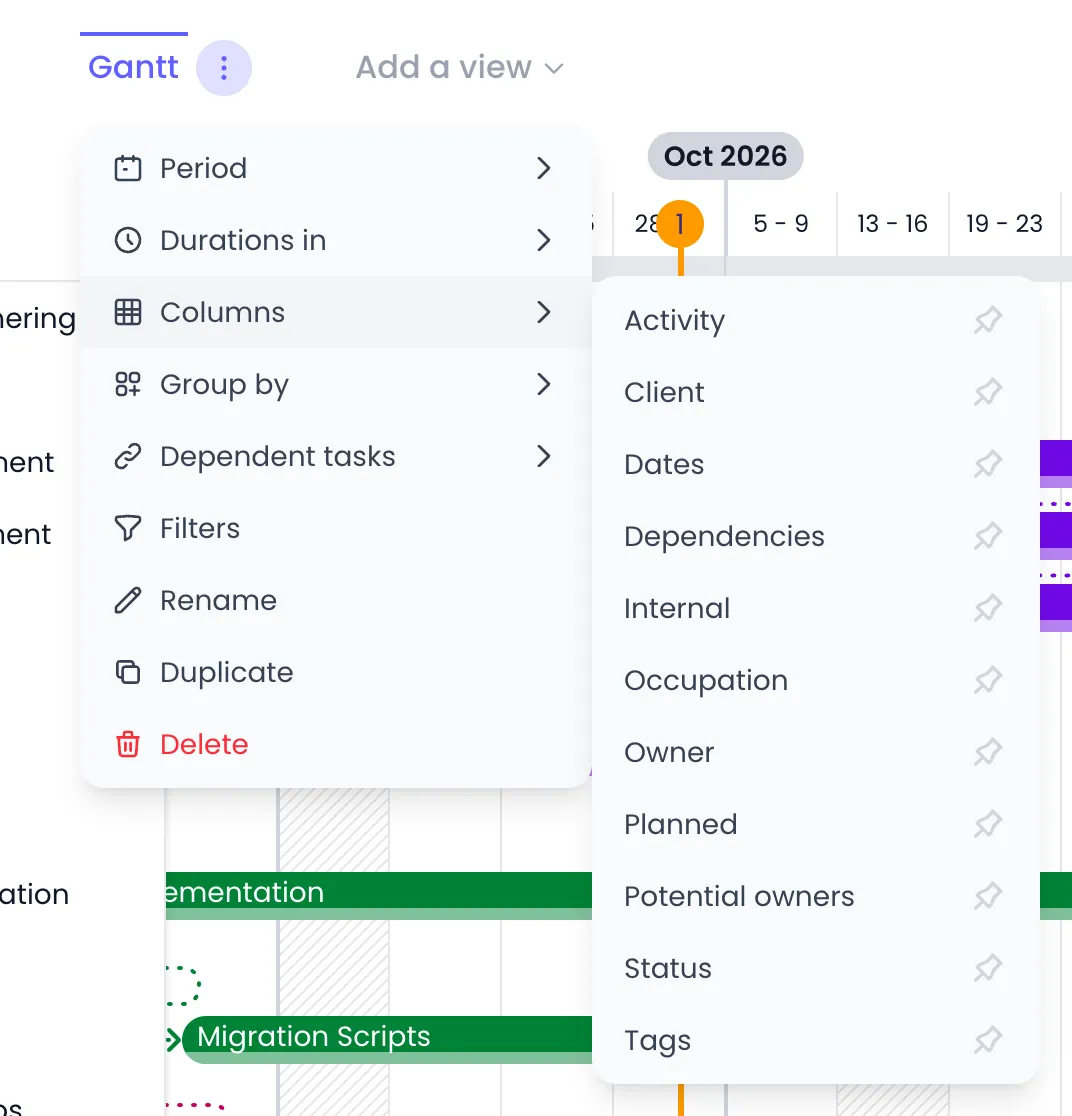
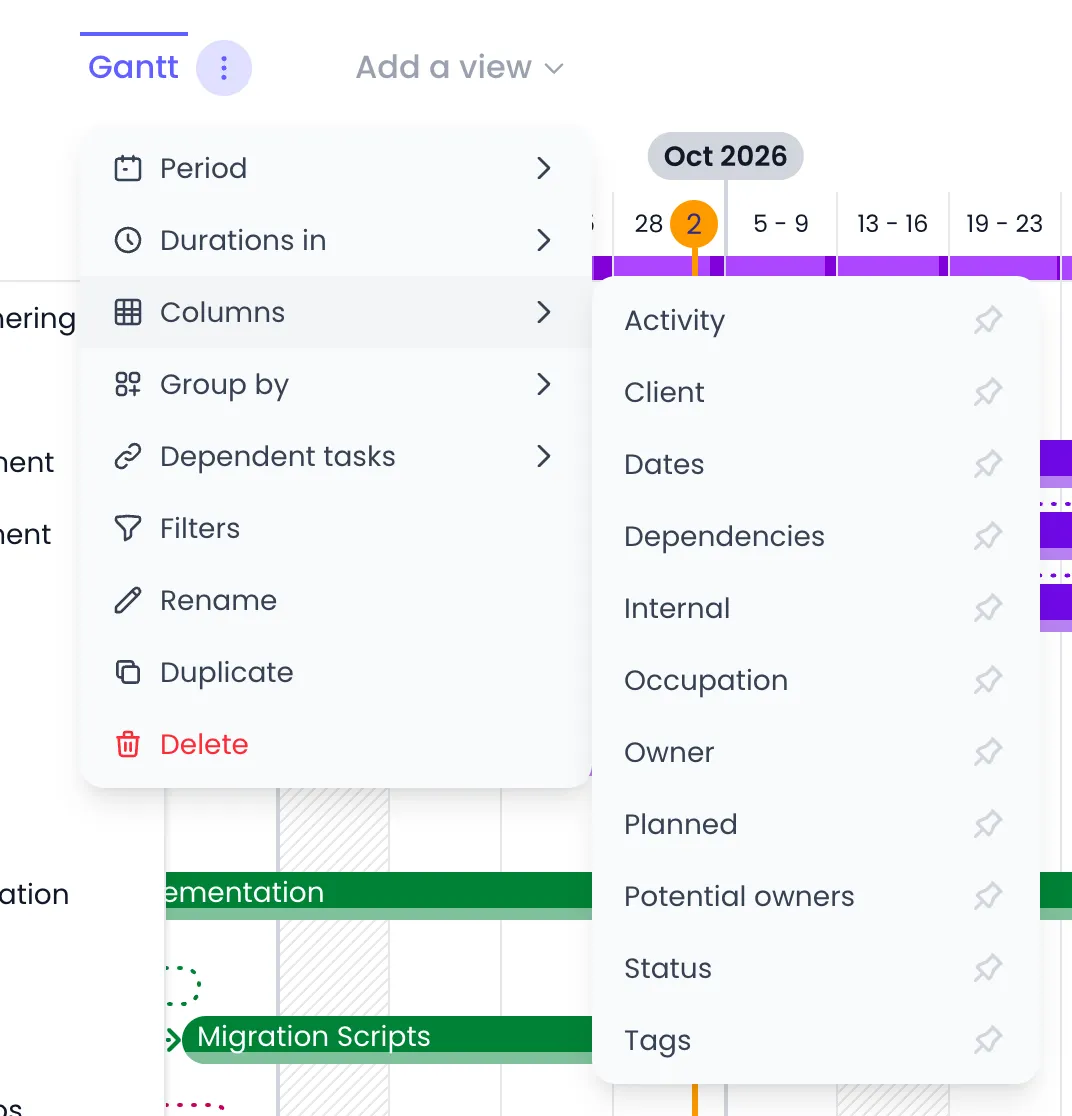
Refresh the Gantt and Utilization shots after the seed repair
Whole-day bars and planned hours change the Gantt timeline, its menus and
the dependency drag (the header now carries its load bars), and give the
Utilization report a Projected figure.

Changed region(s): [[0.5541, 0.1828, 1.0, 0.2742], [0.6157, 0.9749, 0.6772, 1.0]]

diff --git a/.todo/screenshot-needs.md b/.todo/screenshot-needs.md
@@ -622,7 +622,7 @@ The inventory had no automatable entry left (every open one needs Excel, Google 
 | billing/billing-method-picker.webp | A rate card's billing method picker listing the four methods | medium — done on Acme Corp (scene `billing-method-picker`, 2026-10-02) |
 | account-settings/accent-color-picker.webp | The organization's color palette and logo drop area, opened from the header | medium — done (scene `account-settings-accent-color`, 2026-10-02). Logo and color are one control, the square in the header: page corrected |
 | timesheets/submit-button.webp | The Submit button at the top of a draft timesheet | medium — done as a lens on the last full week (scene `timesheets-submit-button`, 2026-10-02) |
-| reports/utilization-report.webp | The Utilization report | medium — done (scene `reports-utilization`, 2026-10-02). Projected reads 0% for everyone: no planned bookings on QA |
+| reports/utilization-report.webp | The Utilization report | medium — done (scene `reports-utilization`, 2026-10-02). Recaptured after the seed repair of 2026-10-02: Projected now reads for the owners of planned tasks (James Chen 41%, Liam O'Brien 43%) |
 | reports/revenue-at-risk.webp | The Revenue at Risk report with projects at risk | medium — done at 1760 wide: four budgeted projects get an end date by a fixture, two come out at risk (scene `reports-revenue-at-risk`, 2026-10-02). The report projects from the server's today, so replay will report it changed as time passes: compare by eye. The screen shows the end date under Projected at end and the implied rate under Revenue at Risk, and Logged only in the export: page completed |
 | budgets/budget-split-by-person.webp | A budget card split by person with two allocations | medium — done on Web Portal, split between Elena Rossi and Lucas Bernard by a fixture (scene `budgets-split-by-person`, 2026-10-02) |
 | public-holidays/tag-holidays-panel.webp | A tag's own Public holidays panel | medium — done: the London tag with the United Kingdom calendar, set by a fixture (scene `public-holidays-tag`, 2026-10-02) |
